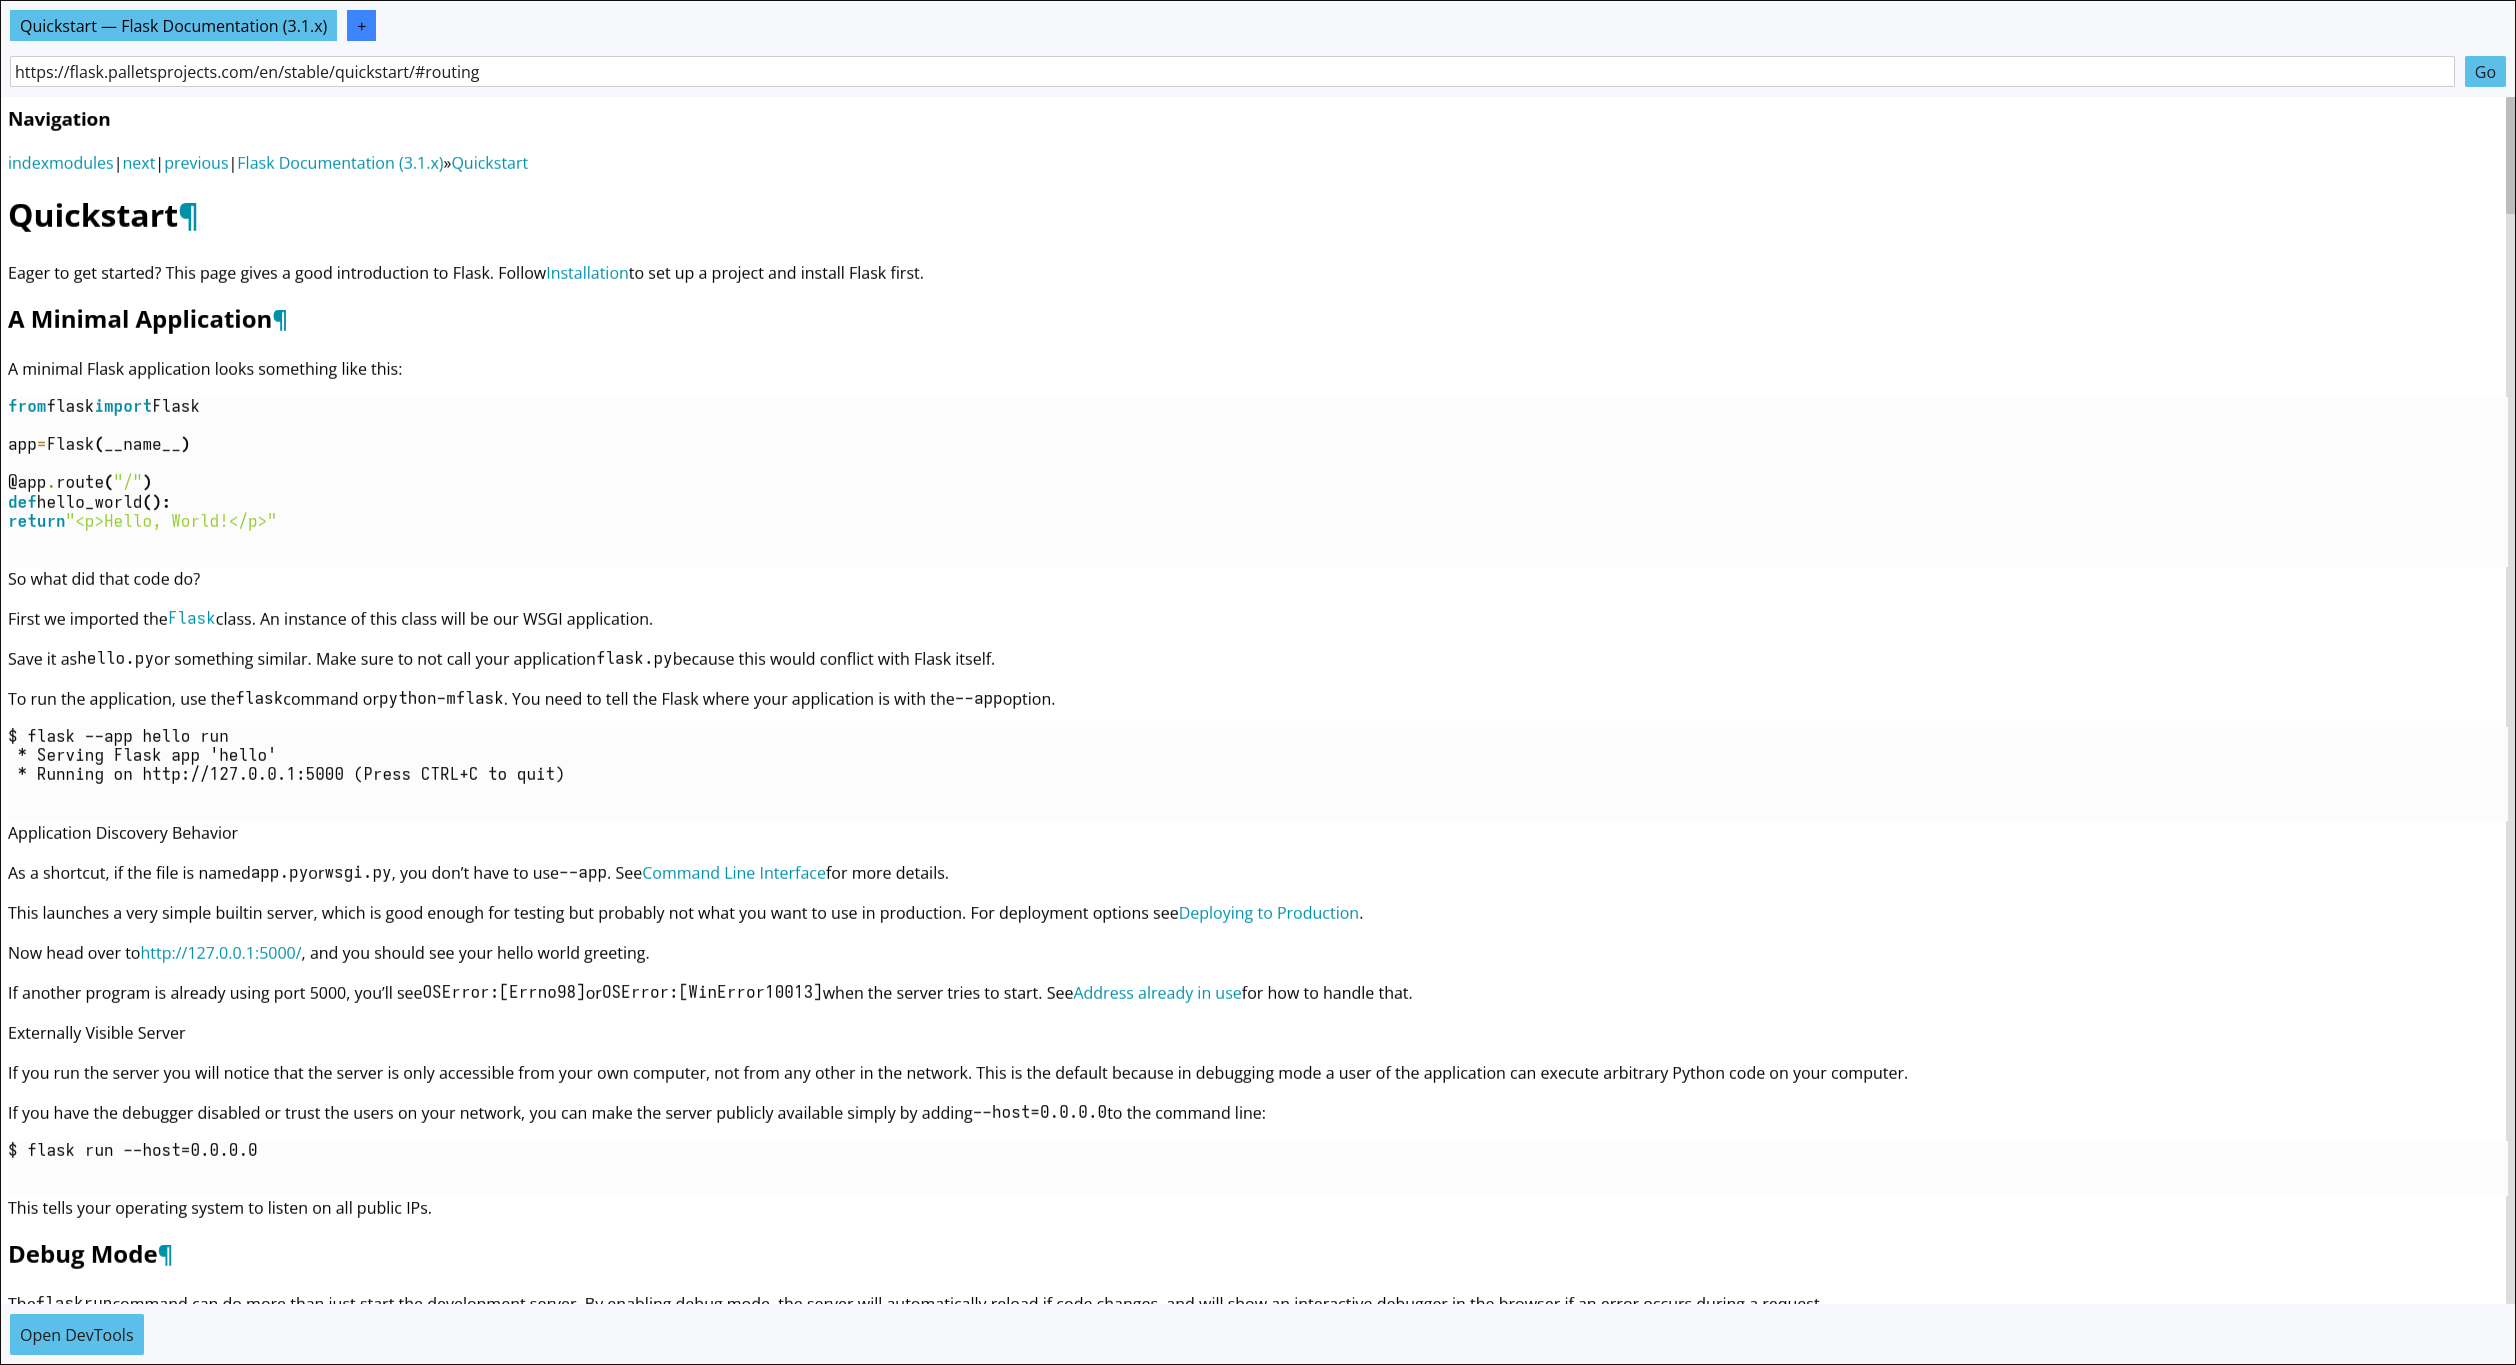
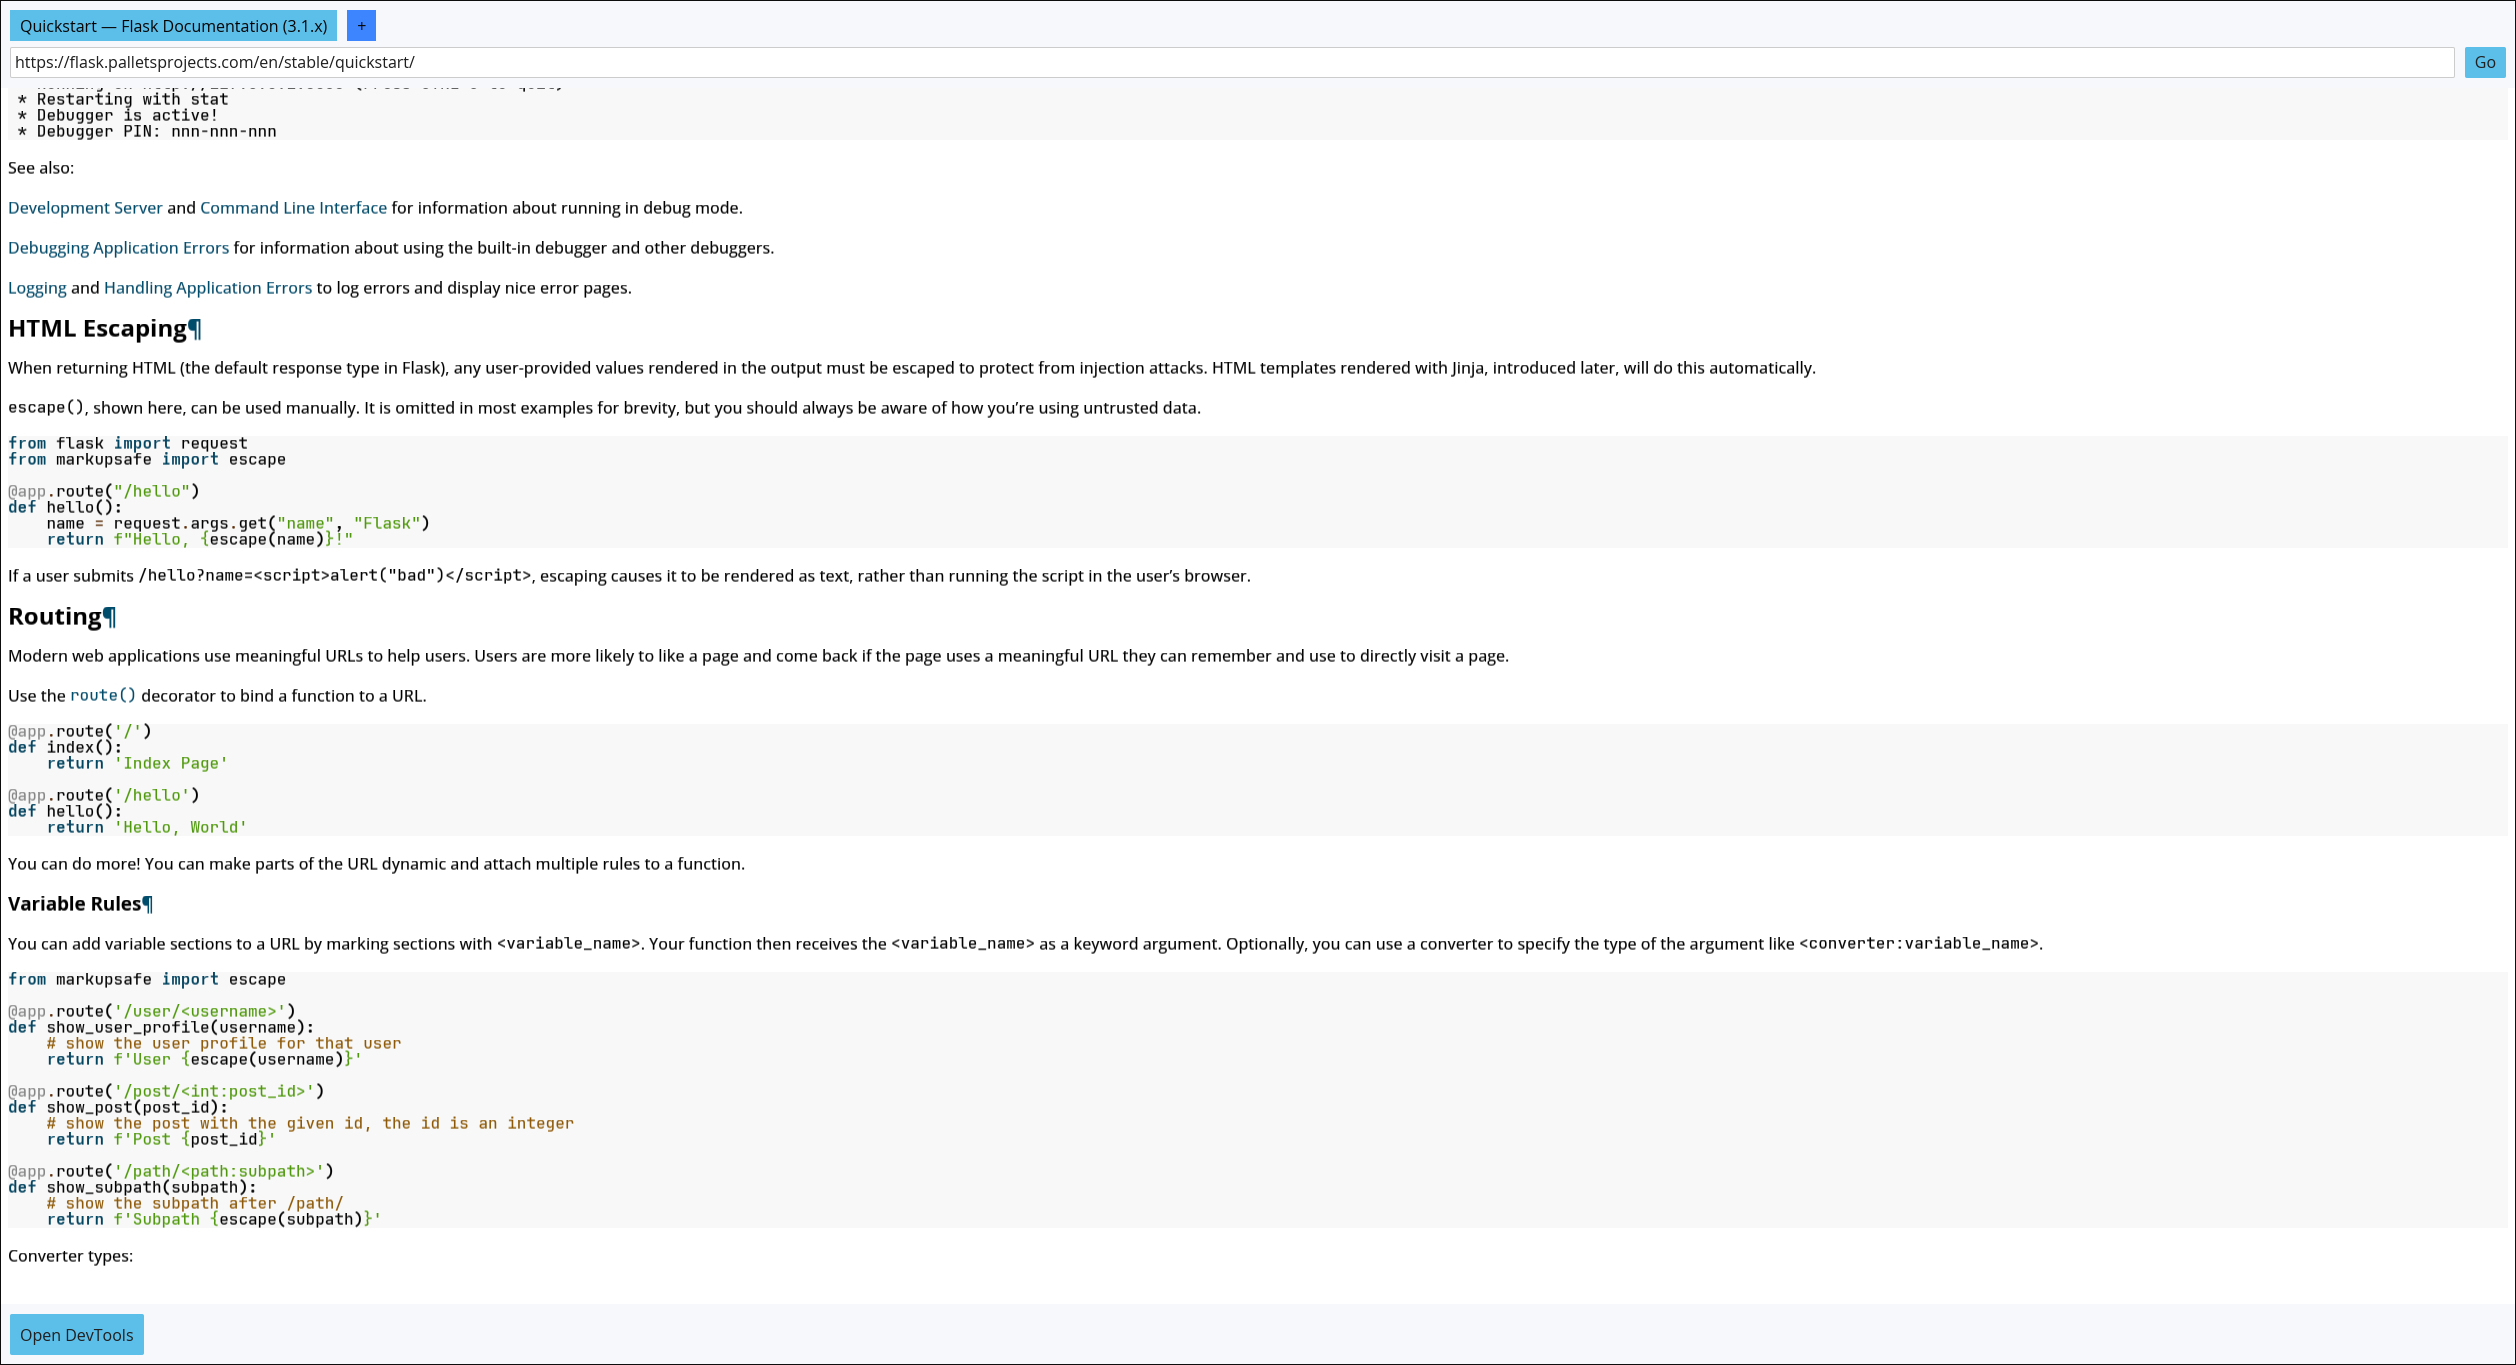
feat(project): Update README

Changed region(s): [[0.0, 0.0308, 0.806, 0.9538], [0.961, 0.0308, 1.0, 0.9538], [0.713, 0.7692, 0.744, 0.8]]

diff --git a/README.md b/README.md
@@ -7,28 +7,29 @@ A web browser built in Rust! It currently supports a subset of HTML and CSS when
 
 ## Features
 
-- HTML & CSS parsing
-- Layout Engine, CSS properties supported can be found: [./docs/CSS.md](./docs/CSS.md).
-- Rendering Engine using `wgpu` and `iced` for UI elements.
 - Headless mode
 - Navigating to URLs
 - Cookies
 - UI theming with user configurable TOML file
 - Tabbed browsing
 
+### Extra
+
+Supported CSS properties can be found: [./docs/CSS.md](./docs/CSS.md).
+
 ## Screenshots
 
-https://www.rfc-editor.org/rfc/rfc6265.html
+https://github.com/andre-eriksson
 
-<img src="./docs/rfc6265.png" alt="A screenshot of the app rendering the RFC 6265 page" width="800"/>
+<img src="./docs/github.png" alt="A screenshot of the app rendering my own GitHub page" width="800"/>
 
-https://flask.palletsprojects.com/en/stable/quickstart/#routing
+https://flask.palletsprojects.com/en/stable/quickstart
 
 <img src="./docs/flask.png" alt="A screenshot of the app rendering the Flask quickstart page" width="800"/>
 
-https://tailwindcss.com/docs/colors
+https://en.wikipedia.org/wiki/Web_browser
 
-<img src="./docs/tailwind.png" alt="A screenshot of the app rendering a tailwindcss page" width="800"/>
+<img src="./docs/wikipedia.png" alt="A screenshot of the app rendering the Wikipedia page for web browsers" width="800"/>
 
 ## Architecture
 
@@ -48,8 +49,15 @@ The browser is composed of 7 subsystems, each responsible for a specific aspect 
   - [**Selector Generation**](./crates/css-selectors): Converts CSSOM to selectors that can be applied to the DOM.
   - [**Styletree Builder**](./crates/css-style): Combines CSS selectors, and DOM to create the style tree.
 - [**Rendering Engine**](./crates/renderer): Renders the layout tree to the screen using GPU acceleration.
-- [**Kernel (Browser Core)**](./crates/kernel): Manages the overall browser state, including tabs, and cookies.
+- [**Kernel (Browser Core)**](./crates/kernel): Manages the overall browser state, including tabs, navigation, and communication between subsystems.
 - [**UI Layer**](./crates/ui): Manages the user interface elements like tabs, address bar, etc.
+
+## Planned Features
+
+- History management
+- Bookmarks
+- Download manager
+- Form handling
 
 ## Non-Goals (for now)
 
